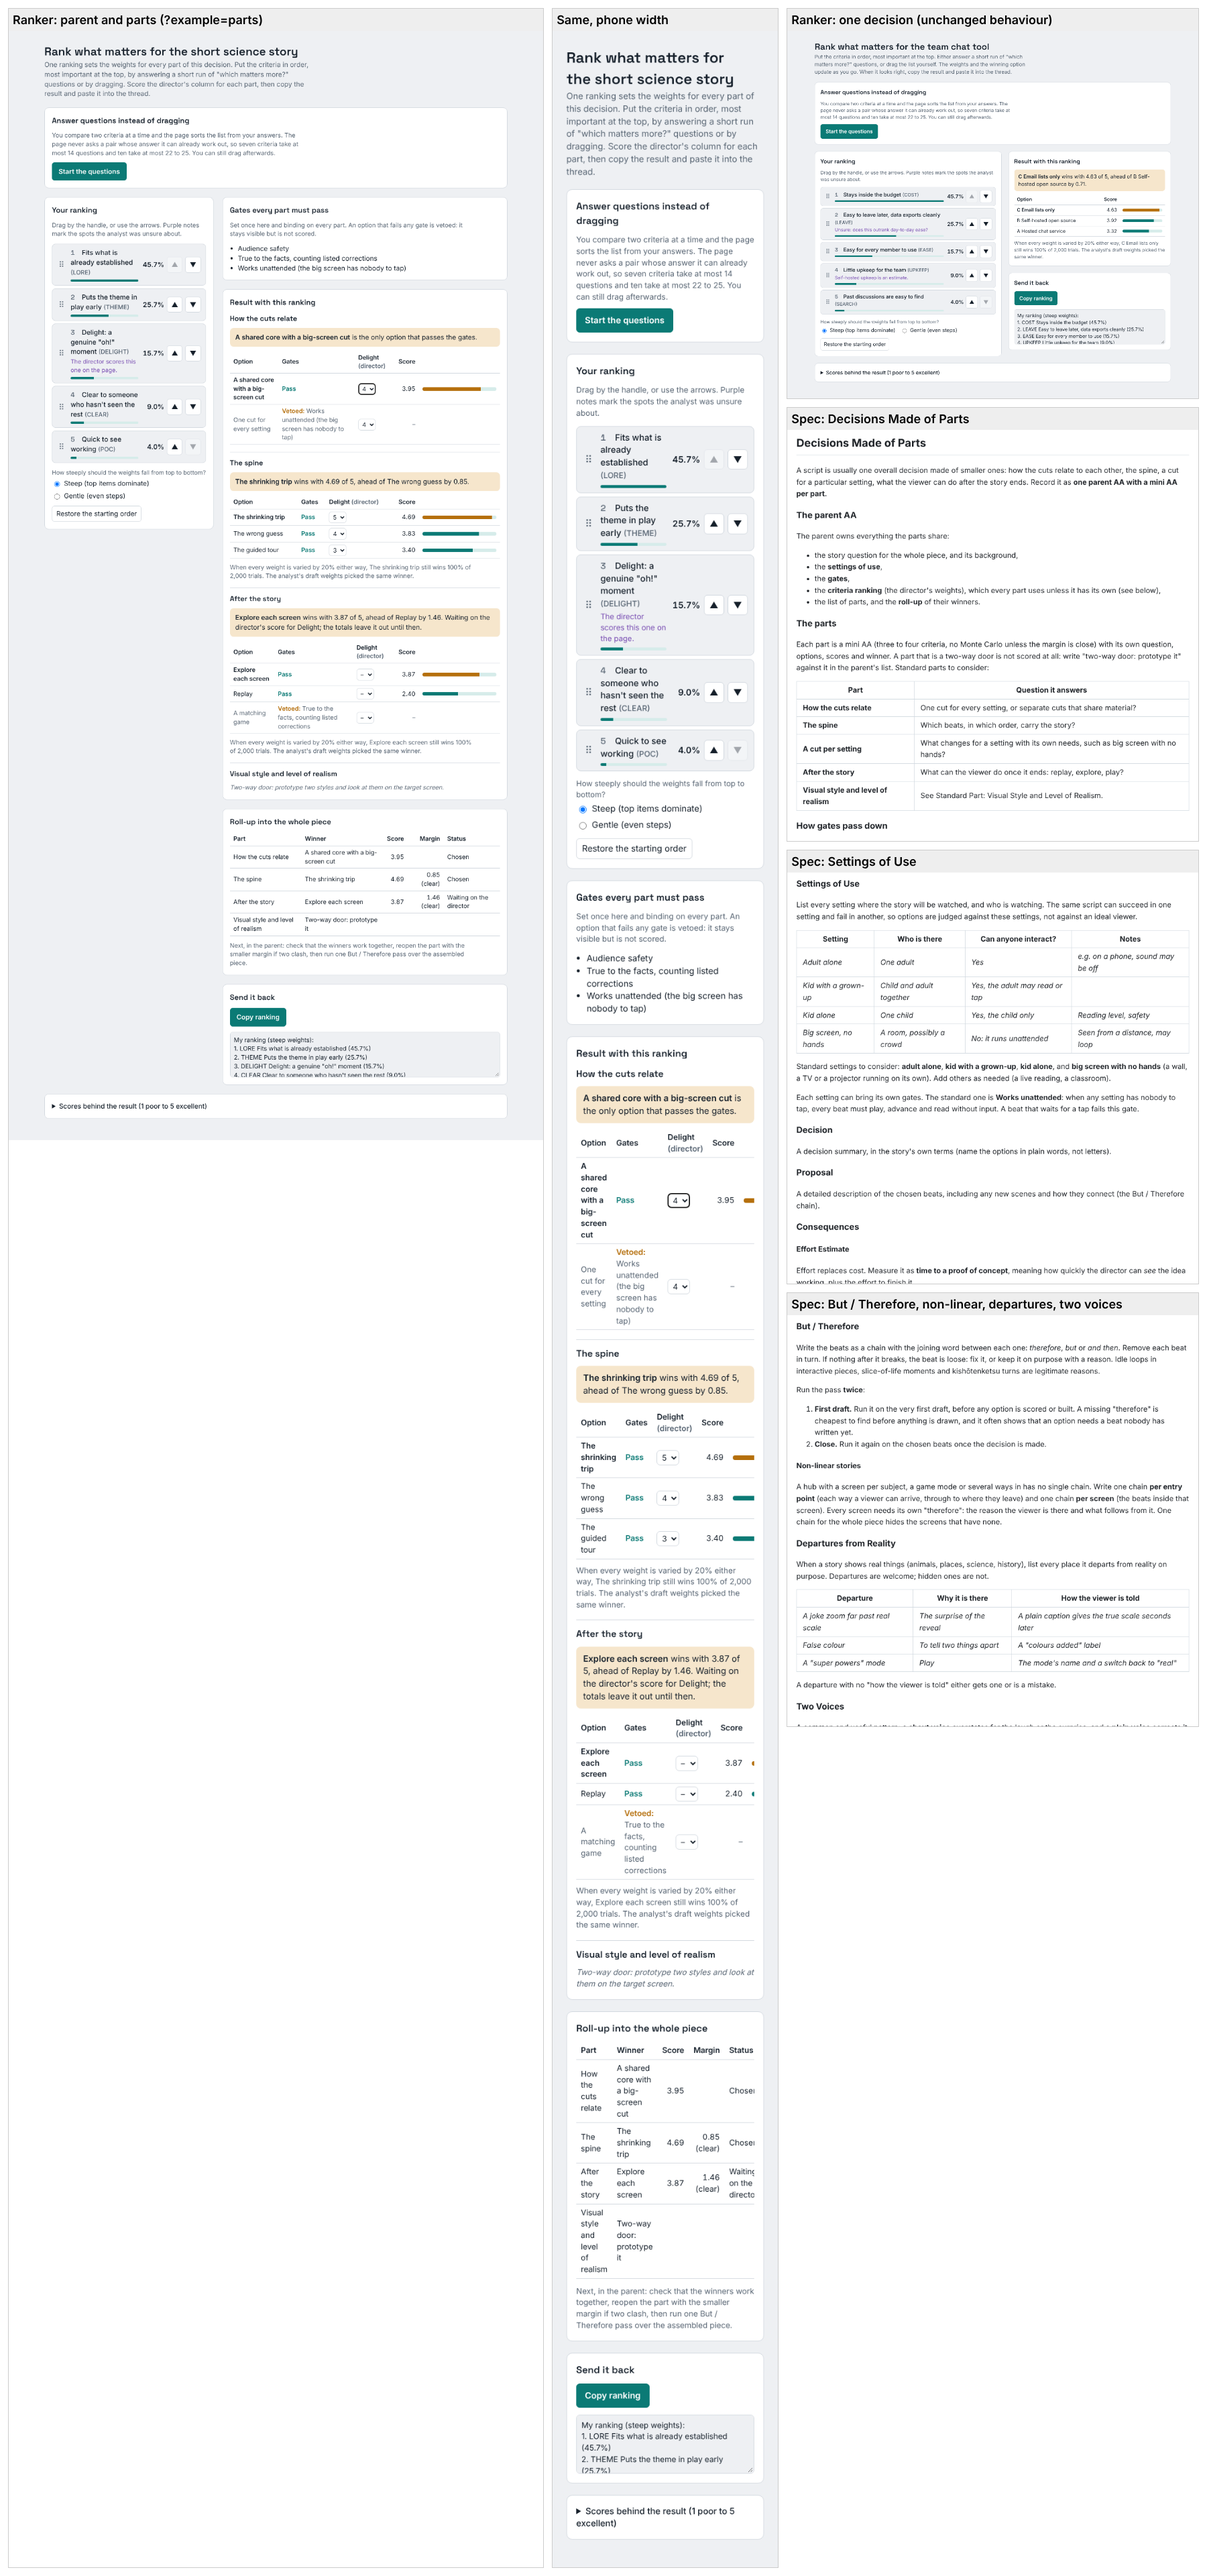
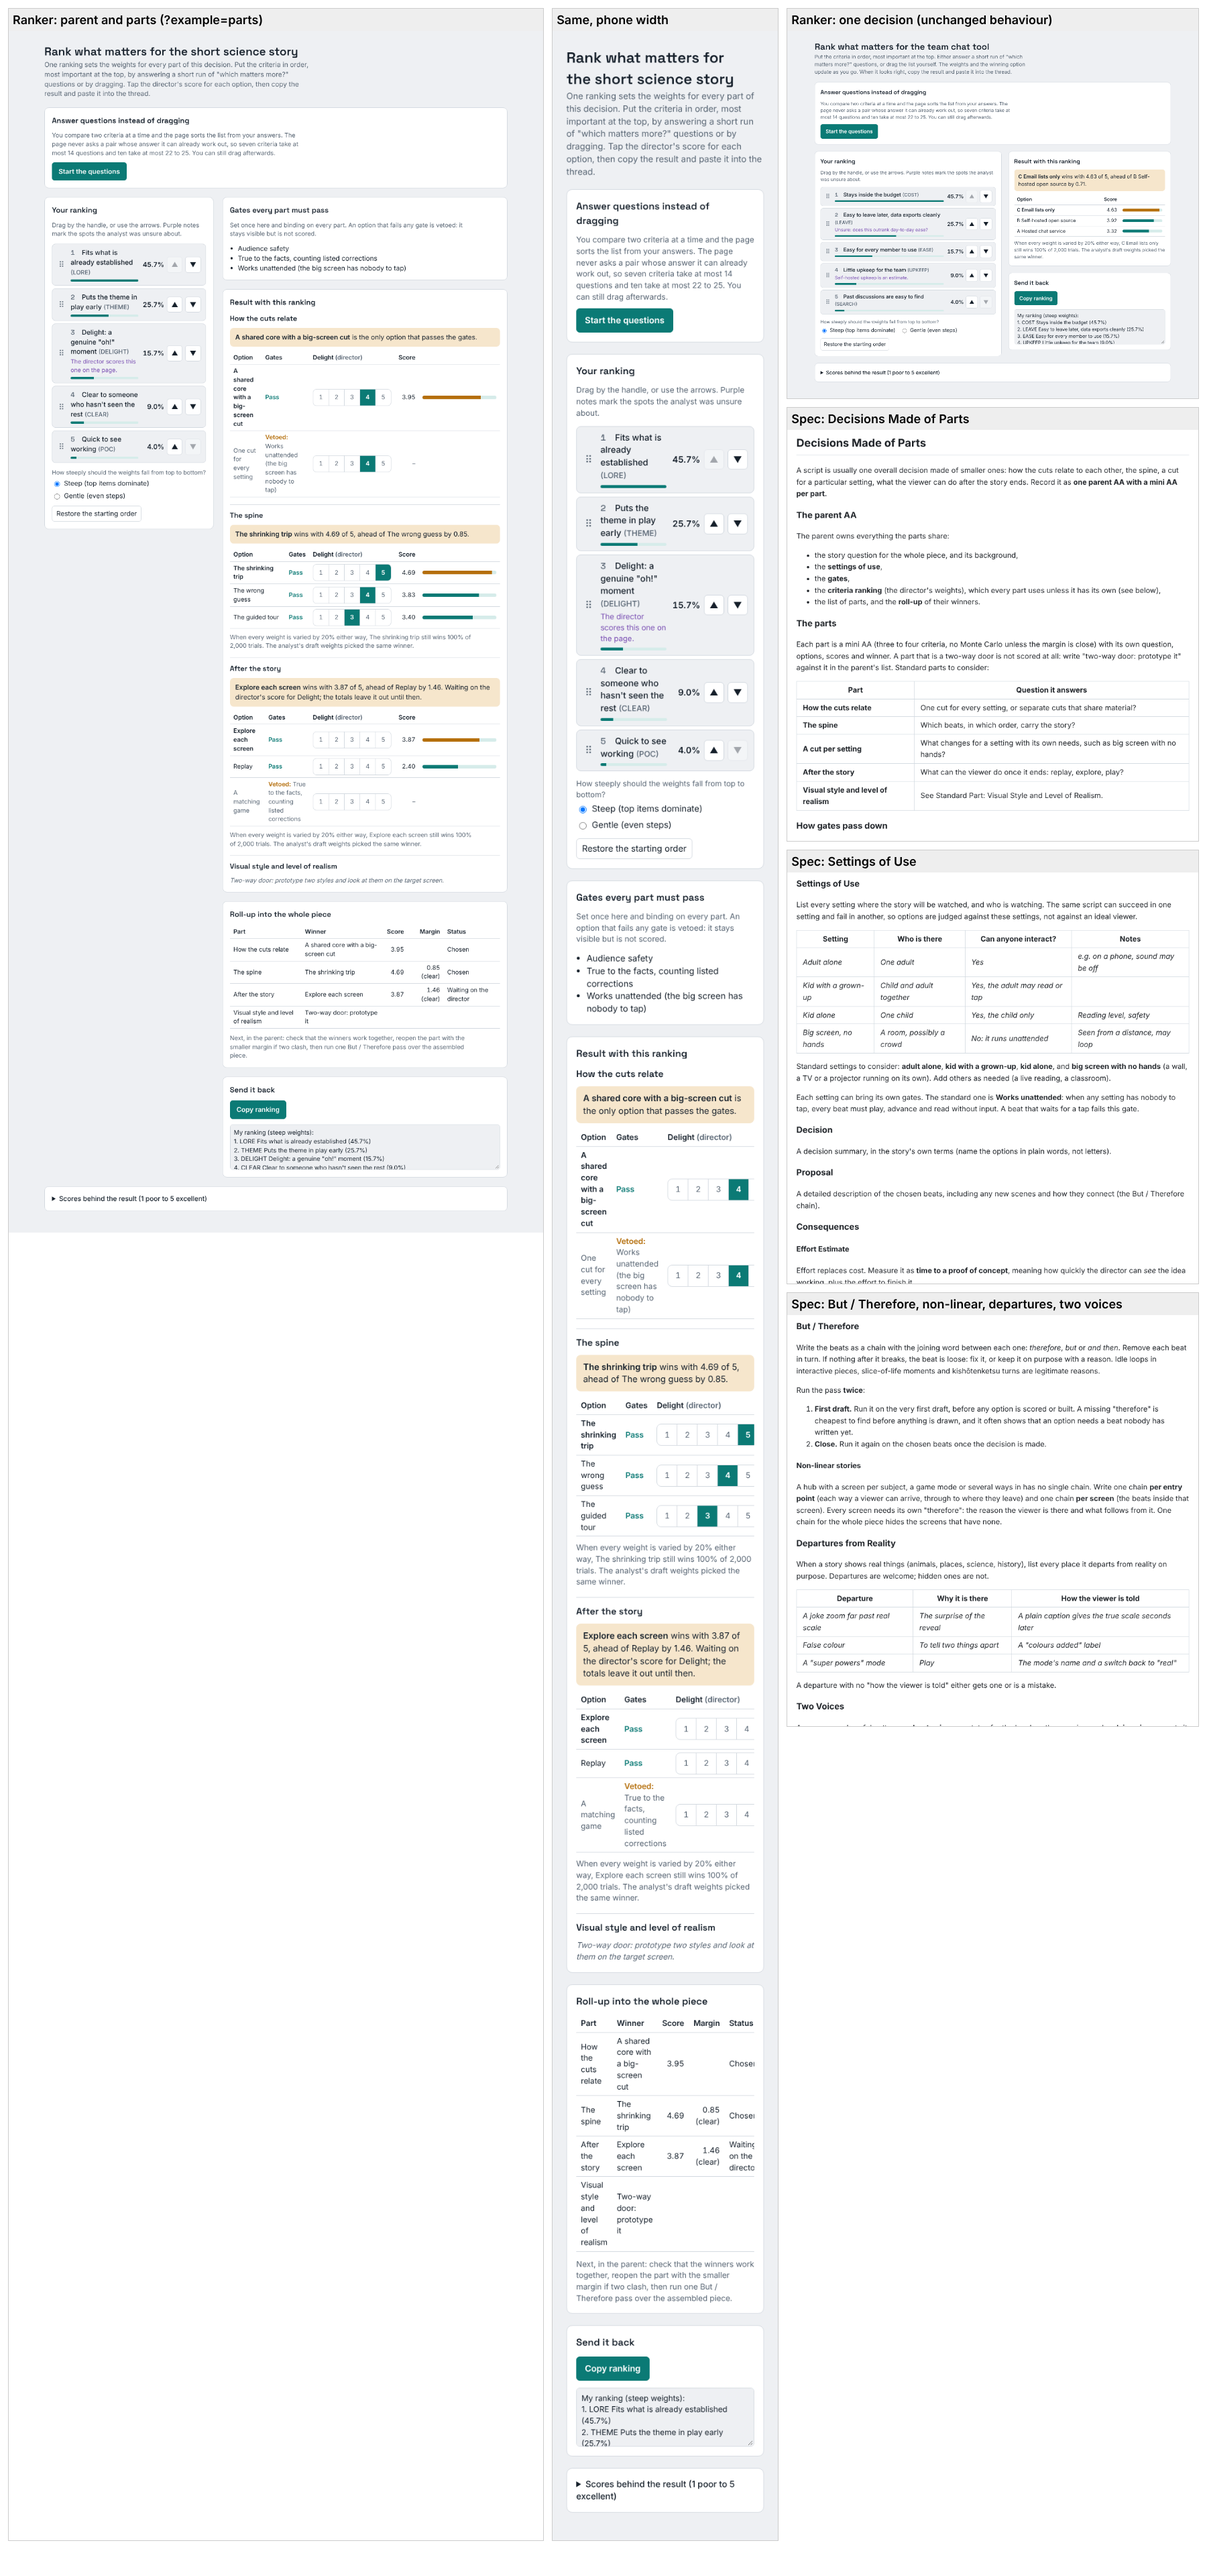
Ranker: delight is one tap on a 1 to 5 row; spec: standard 'True to the facts' gate
Claude-Session: https://claude.ai/code/session_01LePA8zEQV7PnQpr4a8Z1mx

diff --git a/toolkit/criteria-ranker.html b/toolkit/criteria-ranker.html
@@ -80,7 +80,13 @@ summary{cursor:pointer;font-weight:500}
 .opts .bar{height:8px;border-radius:4px;background:var(--accent-soft);overflow:hidden;min-width:60px}
 .opts .bar i{display:block;height:100%;background:var(--accent)}
 .opts tr.win .bar i{background:var(--win)}
-select{font:inherit;color:var(--fg);background:var(--panel);border:1px solid var(--line);border-radius:6px;padding:3px 4px}
+.seg{display:inline-flex;border:1px solid var(--line);border-radius:8px;overflow:hidden}
+.seg label{position:relative;display:block}
+.seg input{position:absolute;opacity:0;inset:0;margin:0;cursor:pointer}
+.seg span{display:flex;align-items:center;justify-content:center;min-width:34px;min-height:36px;font-variant-numeric:tabular-nums;border-left:1px solid var(--line);color:var(--muted)}
+.seg label:first-child span{border-left:0}
+.seg input:checked+span{background:var(--accent);color:var(--panel);font-weight:600}
+.seg input:focus-visible+span{outline:2px solid var(--accent);outline-offset:-2px}
 .pass{color:var(--accent);font-weight:600}
 .fail{color:var(--win);font-weight:600}
 .multi .cols{grid-template-columns:minmax(0,1fr)}
@@ -153,7 +159,7 @@ select{font:inherit;color:var(--fg);background:var(--panel);border:1px solid var
     <details>
       <summary>Scores behind the result (1 poor to 5 excellent)</summary>
       <div id="scores" style="margin-top:10px;display:flex;flex-direction:column;gap:12px"></div>
-      <p class="small" style="margin-top:8px">Scores stay fixed here, except the director's scores, which you set on the page. Only the weights change with your ranking. Notes on each criterion say which scores are measured and which are estimates.</p>
+      <p class="small" style="margin-top:8px">Scores stay fixed here, except the director's scores, which you tap on the page. Only the weights change with your ranking. Notes on each criterion say which scores are measured and which are estimates.</p>
     </details>
   </section>
 </div>
@@ -220,7 +226,7 @@ if (MULTI) document.body.classList.add("multi");
 document.title = MULTI ? "Criteria Ranker, parent and parts" : "Criteria Ranker";
 document.getElementById("title").textContent = D.title || "Rank what matters";
 document.getElementById("lede").textContent = MULTI
-  ? "One ranking sets the weights for every part of this decision. Put the criteria in order, most important at the top, by answering a short run of \"which matters more?\" questions or by dragging. Score the director's column for each part, then copy the result and paste it into the thread."
+  ? "One ranking sets the weights for every part of this decision. Put the criteria in order, most important at the top, by answering a short run of \"which matters more?\" questions or by dragging. Tap the director's score for each option, then copy the result and paste it into the thread."
   : "Put the criteria in order, most important at the top. Either answer a short run of \"which matters more?\" questions, or drag the list yourself. The weights and the winning option update as you go. When it looks right, copy the result and paste it into the thread.";
 
 const byId = Object.fromEntries(D.criteria.map(c => [c.id, c]));
@@ -348,8 +354,9 @@ function render() {
       const failed = failedGates(p, j), veto = failed.length > 0;
       t += '<tr class="' + (j === a.top && a.alive.length ? "win" : "") + (veto ? " veto" : "") + '"><td>' + esc(p.alternatives[j]) + '</td>' +
         (gateCols.length ? '<td>' + (veto ? '<span class="fail">Vetoed:</span> ' + esc(failed.join(", ")) : '<span class="pass">Pass</span>') + '</td>' : '') +
-        dirIds.map(id => '<td><select data-part="' + esc(p.id) + '" data-crit="' + id + '" data-alt="' + j + '" aria-label="' + esc(byId[id].name) + ' for ' + esc(p.alternatives[j]) + '">' +
-          '<option value="">–</option>' + [1, 2, 3, 4, 5].map(n => '<option' + (score(p, id, j) === n ? " selected" : "") + '>' + n + '</option>').join("") + '</select></td>').join("") +
+        dirIds.map(id => '<td><div class="seg" role="radiogroup" aria-label="' + esc(byId[id].name) + ' for ' + esc(p.alternatives[j]) + '">' +
+          [1, 2, 3, 4, 5].map(n => '<label><input type="radio" name="d-' + esc(p.id) + '-' + id + '-' + j + '" value="' + n + '" data-part="' + esc(p.id) + '" data-crit="' + id + '" data-alt="' + j + '"' +
+            (score(p, id, j) === n ? " checked" : "") + '><span>' + n + '</span></label>').join("") + '</div></td>').join("") +
         '<td class="n">' + (veto ? "–" : a.v[j].toFixed(2)) + '</td>' +
         '<td>' + (veto ? "" : '<div class="bar"><i style="width:' + (100 * a.v[j] / 5).toFixed(1) + '%"></i></div>') + '</td></tr>';
     });
@@ -385,12 +392,12 @@ function failedGatesText(p) {
 }
 
 document.getElementById("results").addEventListener("change", e => {
-  const s = e.target.closest("select[data-crit]"); if (!s) return;
+  const s = e.target.closest("input[data-crit]"); if (!s) return;
   const p = s.dataset.part, c = s.dataset.crit, j = Number(s.dataset.alt);
   director[p] = director[p] || {}; director[p][c] = director[p][c] || []; director[p][c][j] = s.value ? Number(s.value) : null;
   try { localStorage.setItem(DKEY, JSON.stringify(director)); } catch (err) {}
   render();
-  const again = document.querySelector('select[data-part="' + p + '"][data-crit="' + c + '"][data-alt="' + j + '"]'); if (again) again.focus();
+  const again = document.querySelector('input[data-part="' + p + '"][data-crit="' + c + '"][data-alt="' + j + '"][value="' + s.value + '"]'); if (again) again.focus();
 });
 list.addEventListener("click", e => {
   const b = e.target.closest("button[data-move]"); if (!b) return;

diff --git a/toolkit/README.md b/toolkit/README.md
@@ -7,7 +7,7 @@ Tools that go with the Alternatives Analysis spec (see "Weight Elicitation" in t
   - **Drag:** drag handles plus up and down arrows, for phones. Dragging after the questions clears the ties and the answer record.
   - Live: each criterion's weight (steep = rank-order centroid, gentle = rank-sum; tied neighbours share the mean), the winner and runner-up, a 2,000-trial ±20% weight check, and whether the analyst's draft weights picked the same winner.
   - Returns the ranking, the winner and the full pairwise answer list as text for the owner to paste back. That text is the record.
-  - **Parent and parts:** one page can hold a parent decision and its parts (see "Decisions Made of Parts" in the Storytelling variant). The parent's ranking sets the weights for every part; each part uses only the criteria it has scores for, with weights renormalized over those. Shared gates are listed once; an option that fails one is shown as vetoed and left out of the scoring. A part may add gates of its own (`ownGates`, `ownGateResults`). A criterion marked `director: true` (for example, delight) is scored 1 to 5 on the page by the director, and those scores go into the copied record. A part marked `twoWay: true` is not scored: it shows "two-way door: prototype it". A roll-up table lists each part's winner, score, margin and status. Open the page with `?example=parts` to see an example.
+  - **Parent and parts:** one page can hold a parent decision and its parts (see "Decisions Made of Parts" in the Storytelling variant). The parent's ranking sets the weights for every part; each part uses only the criteria it has scores for, with weights renormalized over those. Shared gates are listed once; an option that fails one is shown as vetoed and left out of the scoring. A part may add gates of its own (`ownGates`, `ownGateResults`). A criterion marked `director: true` (for example, delight) is scored by the director with one tap on a 1 to 5 row, and those scores go into the copied record. A part marked `twoWay: true` is not scored: it shows "two-way door: prototype it". A roll-up table lists each part's winner, score, margin and status. Open the page with `?example=parts` to see an example.
   - **To reuse:** copy the file, replace the `DATA` block and publish it. One decision: `key`, `title`, `alternatives`, `criteria` with `id`, `name`, `scores` per alternative, optional `note`, and `draftWeights`. Parent and parts: `key`, `title`, `criteria` (no scores), `draftWeights`, `gates` (`id`, `name`), and `parts`, each with `id`, `name`, `alternatives`, `scores` by criterion id, and `gates` by gate id (1 pass, 0 fail). See `PARTS_EXAMPLE` in the page.
 - `pairwise.js`: the question engine on its own, for ranking anything by "which of these two?". ES module, no page, no weights. `start(ids, answers)`, `read(state)` (next question, order best first, ties, answers used, worst-case questions left), `answer(state, preferredId or '=')`, `undo`, `worstCase(count)`, `checkQuestions(state, count, importance)` and `withChecks` (re-ask a few earlier pairs to catch drift). Answers are `{a, b, result}` with `'>'` or `'='`; state is replayed from the answers, so earlier answers can seed a run.
 - `pairwise.test.mjs`: `node --test toolkit/pairwise.test.mjs`.

diff --git a/docs/storytelling.md b/docs/storytelling.md
@@ -119,7 +119,7 @@ Then, in the parent:
 3. **Whole-piece But / Therefore pass** on the assembled script (per entry point and per screen when it is non-linear).
 4. The parent has a decision matrix of its own **only** when there are whole-piece alternatives to compare (for example, two complete assemblies). Otherwise its decision is the roll-up table.
 
-The [Criteria Ranker](https://alternatives.jonashw.dev/toolkit/criteria-ranker.html?example=parts) can hold a parent and its parts on one page: one ranking, the shared gates shown once, a column for the director's delight score, and the roll-up table.
+The [Criteria Ranker](https://alternatives.jonashw.dev/toolkit/criteria-ranker.html?example=parts) can hold a parent and its parts on one page: one ranking, the shared gates shown once, a row of 1 to 5 the director taps for each option's delight score, and the roll-up table.
 
 ---
 
@@ -198,7 +198,8 @@ Suggested gates (adapt per story):
 1. **Source words.** Doesn't change the source author's words. Adding is welcome ("yes, and").
 2. **Audience safety.** Nothing cruel, harmful or misleading on the surface for the intended audience. Darker readings are fine underneath, for older viewers.
 3. **Ownership.** No copying of others' owned characters. Homage and credited influence are welcome.
-4. **Works unattended.** Required when any setting of use has nobody to interact (see Settings of Use). Every beat plays, advances and reads with no input.
+4. **True to the facts.** For stories that show real things (science, nature, history). Every claim is true, or is a listed departure from reality, or is a shout claim whose correction is listed and shown (see Two Voices).
+5. **Works unattended.** Required when any setting of use has nobody to interact (see Settings of Use). Every beat plays, advances and reads with no input.
 
 **Zero-veto mode (alternative).** Instead of screening options out, a gate can sit in the matrix as a row with no weight, scored **0** (fails) or **1** (passes). Any 0 sets that option's total to 0:
 
@@ -341,7 +342,7 @@ Every shout claim that is not literally true is listed with its correction:
 |---|---|---|
 | *An overstated claim, shouted* | *The true statement* | *The same screen, a few seconds later, in the plain voice* |
 
-A fact gate judges the pair, not the shout line alone: a listed shout claim with its correction shown in the same setting passes. A shout claim with no listed correction fails. In settings where the viewer may leave before the correction (a looping wall, a skippable screen), the correction must appear before they can leave.
+The **True to the facts** gate judges the pair, not the shout line alone: a listed shout claim with its correction shown in the same setting passes. A shout claim with no listed correction fails. In settings where the viewer may leave before the correction (a looping wall, a skippable screen), the correction must appear before they can leave.
 
 ### Standard Part: Visual Style and Level of Realism
 

diff --git a/docs/field-notes/2026-11-22-scores-are-a-tap.md b/docs/field-notes/2026-11-22-scores-are-a-tap.md
@@ -1,0 +1,10 @@
+---
+date: 2026-11-22
+repo: jonashw/alternatives-analysis
+kind: correction
+area: ui-ux
+---
+Situation: Claude proposed that the director "type a 1 to 5 delight score per option" on the Criteria Ranker, and had built it as a dropdown.
+Jon said: "Score? Yes. Type? No. Just a tap"
+Observed: The delight score became a 1 to 5 segmented row; one tap sets it.
+Inferred (my reading): Small fixed-scale inputs should be one tap, not typing or a dropdown, especially since Jon works from an Android phone.
